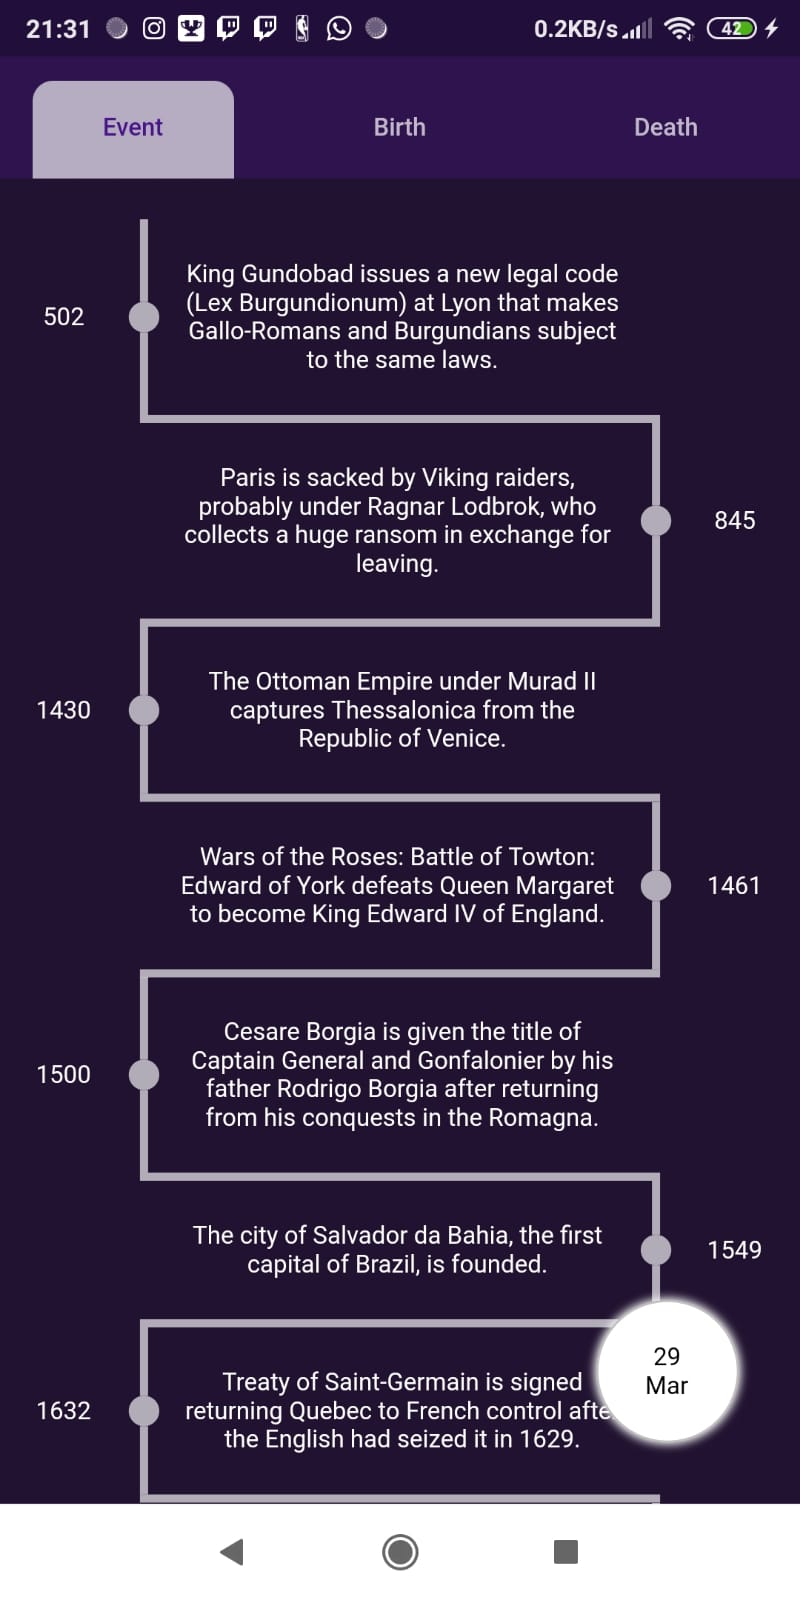
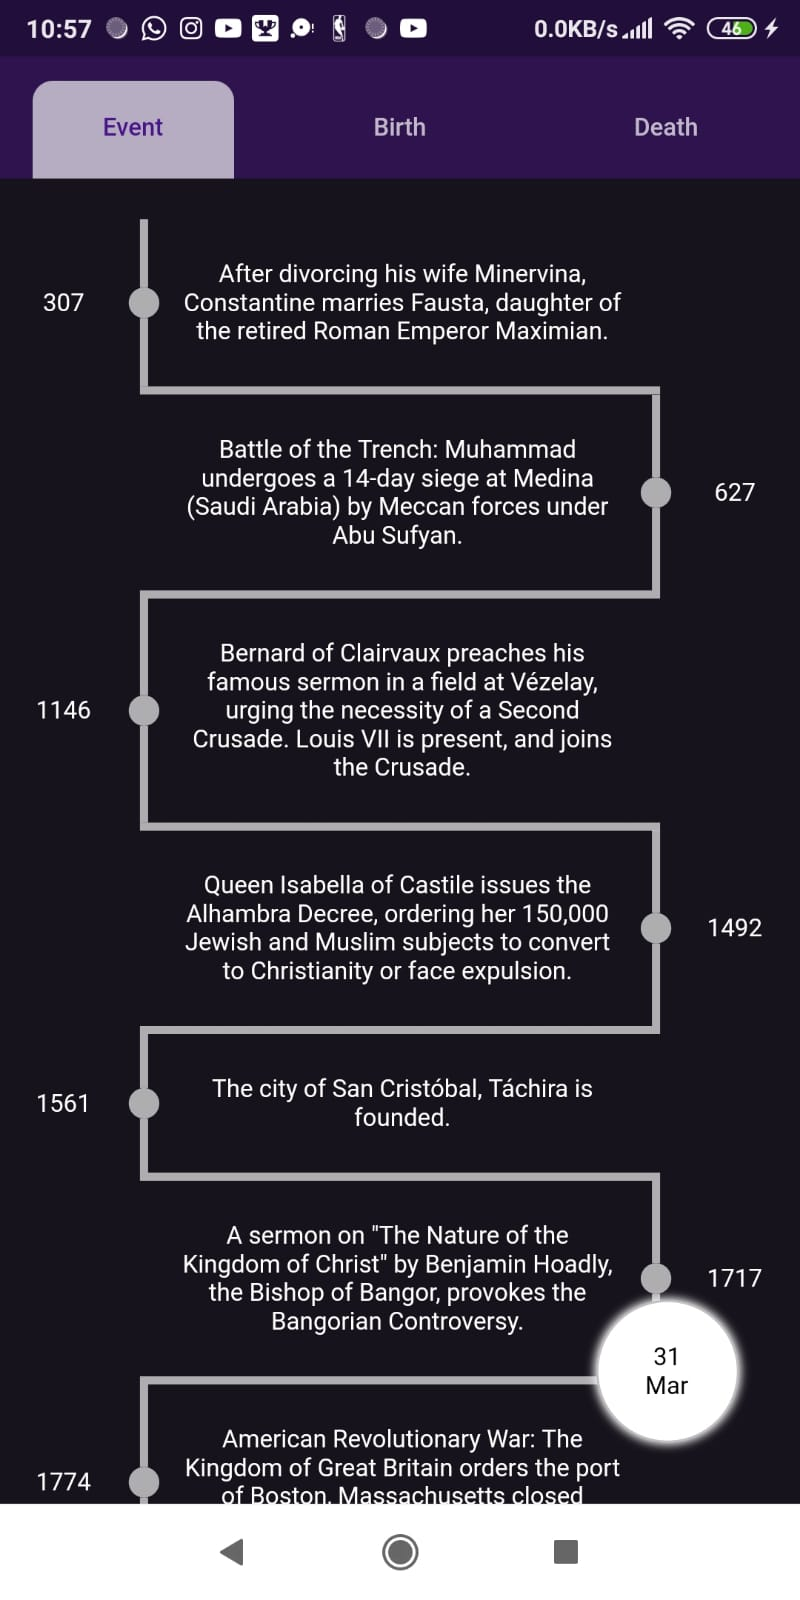
background color change

diff --git a/lib/view/custom_view/history_view.dart b/lib/view/custom_view/history_view.dart
@@ -21,7 +21,7 @@ class HistoryView extends StatelessWidget {
                 return Container(
                   height: MediaQuery.of(context).size.height,
                   decoration: BoxDecoration(
-                    color: snapshot.data?.withOpacity(0.25),
+                    color: snapshot.data?.withOpacity(0.08),
                   ),
                   child: HistoryViewBody(historyState: historyState),
                 );
